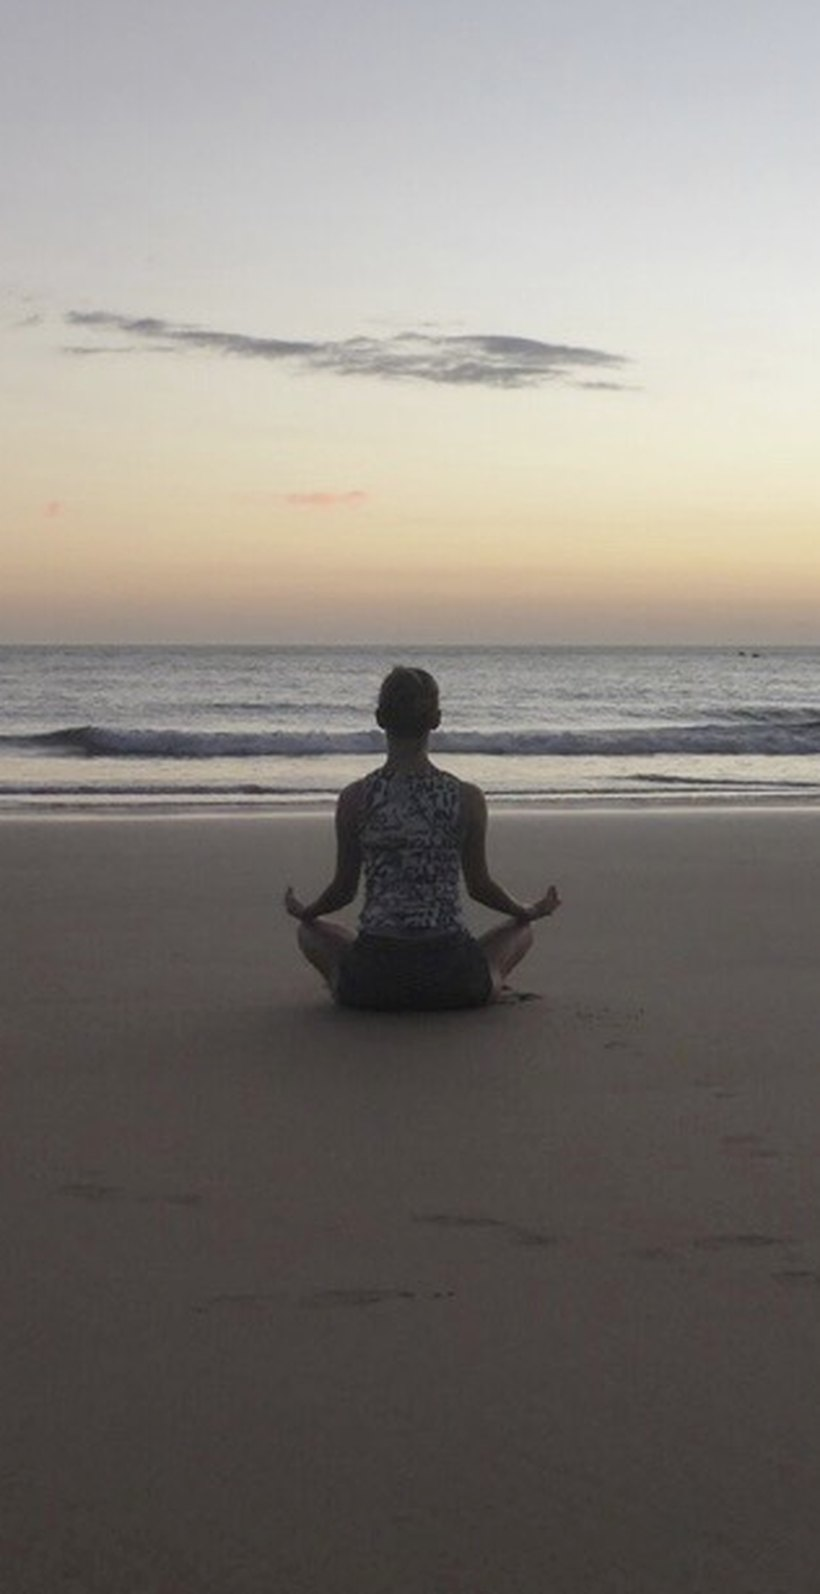
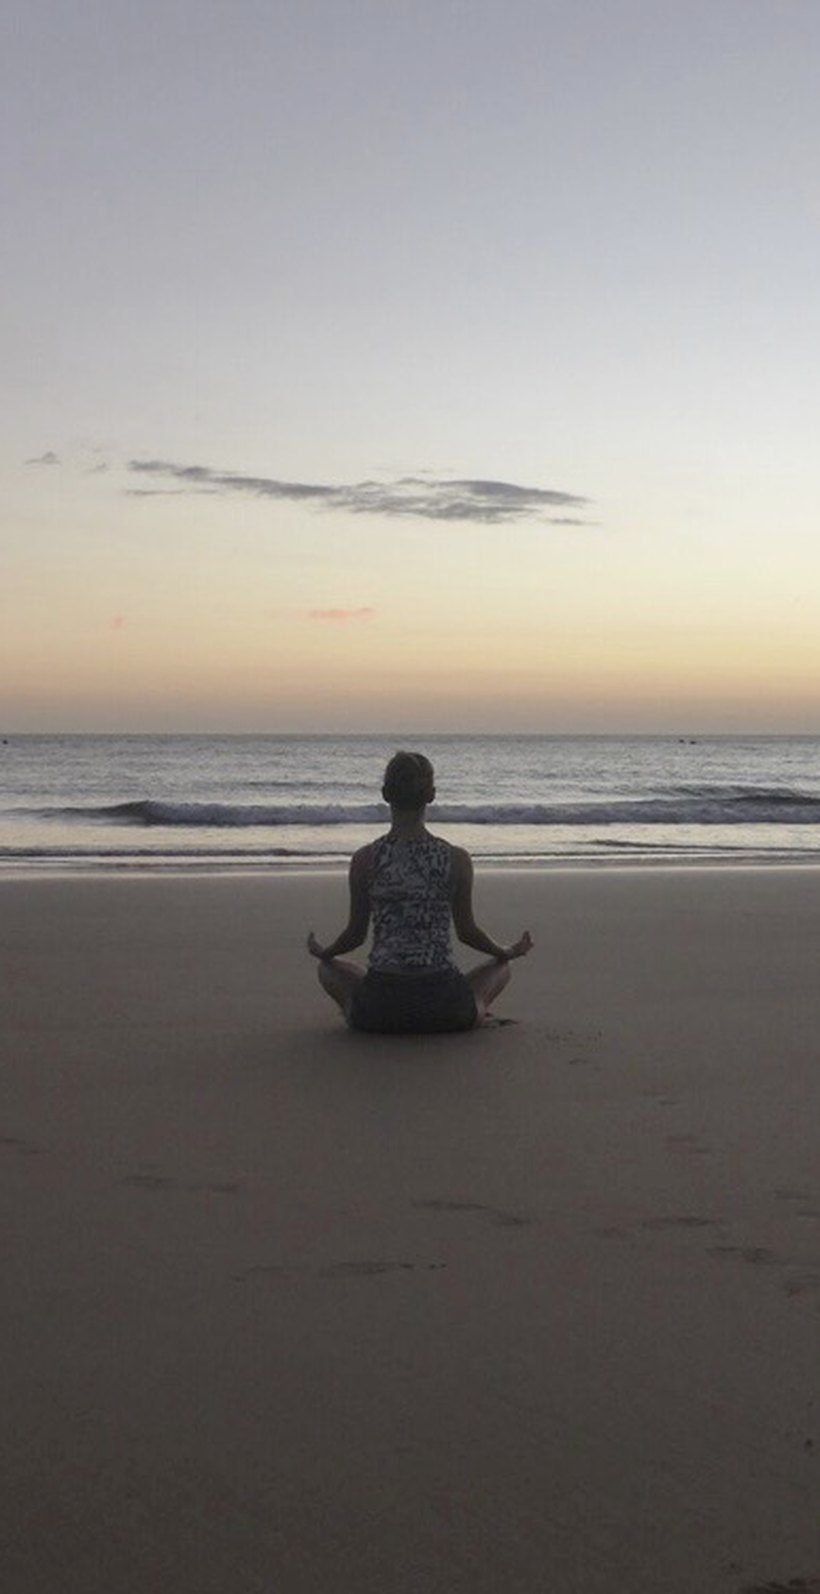
Änderungen vom 14.08.2026, 22:13
Bearbeitet: index.html, sw.js, titel.jpg

diff --git a/index.html b/index.html
@@ -1433,7 +1433,7 @@
   // ueberein, laedt das Handy die Seite einmal ganz frisch nach, mit einer
   // Handynummer in der Adresse, die ein Zwischenspeichern verhindert.
   (function(){
-    var AKTUELLE_VERSION = "2026-08-10.80";
+    var AKTUELLE_VERSION = "2026-08-10.81";
     try {
       var gemerkt = localStorage.getItem("myisland.version");
       if (gemerkt !== AKTUELLE_VERSION){
@@ -1517,8 +1517,10 @@
       <!-- 10. Aug. 2026: ECHTES FOTO VON CHRISTINE statt des gemalten
            insel.jpg - sie am Strand bei Sonnenuntergang. Von drei
            Zuschnitten hat sie den mittleren gewaehlt ("leicht, zweites
-           Meditationsfoto"): etwas naeher herangezogen, damit die Person
-           erkennbar ist, und unten bleibt ruhiger Sand fuer den Knopf.
+           Meditationsfoto"). Zuerst war ein engerer Zuschnitt drin; auf
+           ihren Wunsch ("ich von sehr weit weg, Originalbild") steht jetzt
+           die volle Originalhoehe ohne Hineinzoomen - sie sitzt klein im
+           Bild, viel Strand und Himmel drumherum.
            "Leicht" heisst: nur die dunklen Stellen angehoben (Gamma 0,88),
            der Himmel praktisch unberuehrt - sonst verliert der Abend seine
            Farbe.

diff --git a/sw.js b/sw.js
@@ -8,7 +8,7 @@
 //
 // CACHE_NAME bei jeder wichtigen Aenderung mit hochzaehlen (gleiche Idee
 // wie AKTUELLE_VERSION in index.html) - das raeumt alte Speicherstaende auf.
-const CACHE_NAME = "myisland-cache-v71";
+const CACHE_NAME = "myisland-cache-v72";
 const SHELL_FILES = [
   "./",
   "./index.html",
